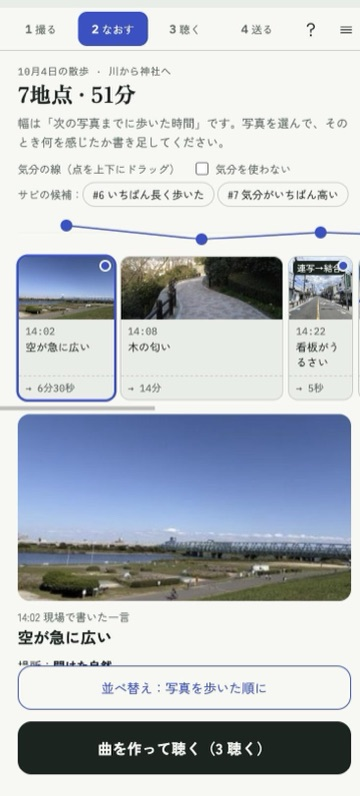
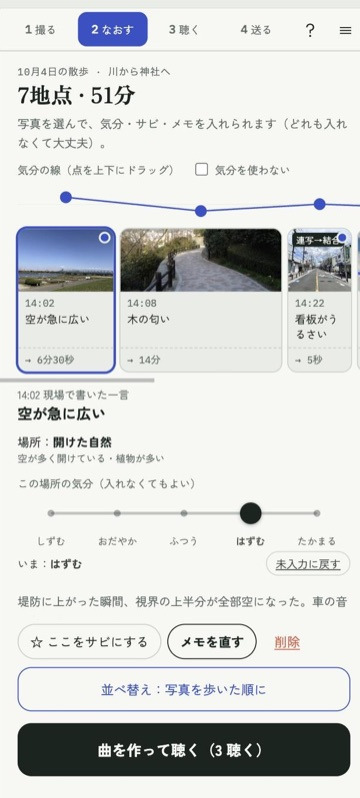
体験版 1.0.4（trial-1.0.4）

diff --git a/index.html b/index.html
@@ -278,6 +278,8 @@ body.spf-open{overflow:hidden}
 .rs-sec{margin:10px 0 4px;font-weight:700;font-size:12px}
 .rs-opt{display:flex;gap:8px;align-items:flex-start;padding:4px 0;font-size:12px;line-height:1.5}.rs-opt input{margin-top:3px;width:18px;height:18px;flex:none}
 .rs-opt small{display:block;color:var(--mute)}
+.rs-f textarea{display:block;width:100%;margin-top:3px;font:inherit;font-size:14px;padding:6px 8px;border:1px solid var(--line);border-radius:8px;background:var(--sheet);color:var(--ink)}
+.rs-how{font-size:12px;line-height:1.7;background:var(--soft);border-radius:10px;padding:8px 10px;margin:8px 0}.rs-how ol{margin:4px 0 0;padding-left:1.3em}
 .rs-f{display:grid;gap:3px;margin:6px 0;font-size:12px}.rs-f input,.rs-f select{border:1px solid var(--line);border-radius:8px;padding:8px;font-size:15px;background:var(--sheet);color:inherit;min-height:44px}
 .rs-f small{color:var(--mute)}
 .rs-consent{border:1px solid var(--line);border-radius:10px;padding:8px 10px;margin:8px 0;font-size:12px}.rs-consent ul{margin:4px 0;padding-left:1.2em}
@@ -302,6 +304,12 @@ body.shell #menu .walks{display:block!important}
 body.shell .sguide{top:44px}body.shell .sguide .sg-h{padding-top:10px}
 @media (max-width:520px){body.shell .sguide{top:calc(44px + env(safe-area-inset-top,0px))}}
 body.shell .scr{top:44px}
+/* ステップ2を小さく（体験者の声：窮屈。写真は上の並びだけ、サビの候補は出さない、サビ・メモ・削除は1行に） */
+body.shell #scr-2 .app-lead:not(.shell-only),body.shell #sabi-cand,body.shell #d-img,body.shell .d-sabi small{display:none!important}
+body.shell .d-memo{font-size:15px}body.shell .d-note{font-size:12px;white-space:nowrap;overflow:hidden;text-overflow:ellipsis}
+body.shell .d-lbl{font-size:11px;color:var(--mute);margin-bottom:-4px}
+body.shell .d-actions{gap:6px}body.shell .d-actions button{min-height:36px;border-radius:99px;padding:4px 12px;font-size:13px}
+body.shell .d-actions #d-sabi{border:1px solid var(--line);background:var(--sheet);color:var(--ink)}body.shell .d-actions #d-sabi[aria-pressed="true"]{background:var(--ink);color:var(--sheet)}
 body.shell .cam-top{padding-top:10px}body.shell .app-h{padding-top:12px}body.shell .back{top:10px}
 body.shell .qz-btns,body.shell #scr-3 .spf-btns,body.shell #len-pick,body.shell #style-pick{display:none!important}
 body.shell #pick #len-pick,body.shell #pick #style-pick{display:flex!important;justify-content:center}
@@ -363,6 +371,7 @@ body.shell #pick #len-pick,body.shell #pick #style-pick{display:flex!important;j
 .tut-smp-t{display:flex;justify-content:space-between;align-items:center;gap:8px;margin-top:6px}.tut-smp-t b{display:inline!important;font-size:13px!important;font-family:var(--f-body)!important;margin:0!important}
 .tut-smp-t button{min-height:40px;min-width:88px;border-radius:99px;border:0;background:var(--route);color:#fff;font-size:14px;font-weight:700;cursor:pointer}
 .tut-note{font-size:12px;color:var(--mute)}
+.tut-qa{margin:4px 0}.tut-qa dt{font-weight:700;margin-top:8px}.tut-qa dt::before{content:'Q. ';color:var(--route)}.tut-qa dd{margin:2px 0 0 1.4em}
 .tut-nav{display:flex;gap:8px;margin-top:8px}
 .tut-nav button{flex:1;min-height:48px;border-radius:12px;border:1px solid var(--line);background:var(--sheet);color:var(--ink);font-size:15px;cursor:pointer}
 .tut-nav button.main{background:var(--route);border-color:var(--route);color:#fff;font-weight:700}
@@ -583,7 +592,7 @@ tr.click:hover td{background:var(--soft)}
         <section id="scr-2" class="scr app" hidden>
           <span class="status">21:10</span>
           <div class="app-h"><div class="eyebrow" id="edit-date"></div><h2 id="edit-title"></h2></div>
-          <p class="app-lead">幅は「次の写真までに歩いた時間」です。写真を選んで、そのとき何を感じたか書き足してください。</p>
+          <p class="app-lead">幅は「次の写真までに歩いた時間」です。写真を選んで、そのとき何を感じたか書き足してください。</p><p class="app-lead shell-only" id="lead2s">写真を選んで、気分・サビ・メモを入れられます（どれも入れなくて大丈夫）。</p>
           <div class="mood-tools"><span>気分の線（点を上下にドラッグ）</span><label><input type="checkbox" id="mood-off"> 気分を使わない</label><span id="sabi-cand"></span></div>
           <div class="tlw" id="tlw"><div class="mood-row" id="mood-row" aria-label="気分の線"></div><div class="tl" id="timeline"></div></div>
           <div class="detail" id="detail"></div>
@@ -622,10 +631,10 @@ tr.click:hover td{background:var(--soft)}
         <!-- PHASE 4（2026-10-31）：体験のおわり。展示用に送る（もとの名前は「研究に送る」） -->
         <section id="scr-4" class="scr app" hidden>
           <div class="app-h"><div class="eyebrow">4 · おわり</div><h2>おつかれさまでした</h2></div>
-          <p class="app-lead">あなたの散歩の曲ができました。よければ、卒業制作展の展示に協力してください。送るかどうかは自由です。</p>
-          <div class="p4-in"><img src="assets/tenchan.png" alt="" class="p4-img"><p class="p4-say">きいてくれて ありがとう！<br>てんじに きょうりょく してくれたら うれしいな！</p></div>
+          <p class="app-lead">あなたの散歩の曲ができました。よければ、卒業制作に協力してください。送るかどうかは自由です。</p>
+          <div class="p4-in"><img src="assets/tenchan.png" alt="" class="p4-img"><p class="p4-say">アプリを つかってくれて ありがとう！<br>そつぎょうせいさくに きょうりょく してくれたら うれしいな！</p></div>
           <button class="cta" id="p4-send">展示用に送る</button>
-          <div class="p4-more"><button type="button" id="p4-listen">もう一度聴く</button><button type="button" id="p4-spf">散歩譜を見る</button><button type="button" id="p4-start">はじめの画面へ</button></div>
+          <div class="p4-more"><button type="button" id="p4-squiz">知らない景色でクイズ（見本の散歩）</button><button type="button" id="p4-feedback" hidden>アンケートに答える（zip もここから送れます）</button><button type="button" id="p4-listen">もう一度聴く</button><button type="button" id="p4-spf">散歩譜を見る</button><button type="button" id="p4-start">はじめの画面へ</button></div>
         </section>
         <!-- 加筆エディタ（PHASE 2・3 共通） -->
         <div class="editor" id="editor" hidden>
@@ -672,7 +681,7 @@ tr.click:hover td{background:var(--soft)}
           <div class="sguide shell-only" id="menu" hidden role="dialog" aria-modal="true" aria-labelledby="menu-title">
             <div class="sg-h"><b id="menu-title">メニュー</b><button type="button" id="menu-close">閉じる</button></div>
             <div class="sg-body" id="menu-body">
-              <div class="menu-btns"><button type="button" id="mn-tut">つかいかたを見る</button><button type="button" id="mn-guide">風景と音の早見表</button><button type="button" id="mn-spf-file">散歩譜ファイルを開く</button><button type="button" id="mn-start">はじめの画面にもどる</button></div>
+              <div class="menu-btns"><button type="button" id="mn-tut">つかいかたを見る</button><button type="button" id="mn-squiz">見本の散歩でクイズ</button><button type="button" id="mn-feedback" hidden>アンケートに答える</button><button type="button" id="mn-guide">風景と音の早見表</button><button type="button" id="mn-spf-file">散歩譜ファイルを開く</button><button type="button" id="mn-start">はじめの画面にもどる</button></div>
               <div id="menu-walks"></div>
             </div>
           </div>
@@ -847,7 +856,7 @@ tr.click:hover td{background:var(--soft)}
   <div class="spf-detail" id="spf-detail" hidden></div>
   <input type="file" id="spf-file" accept=".json,application/json" hidden>
 </div>
-<script>window.TC_TRIAL={"version": "1.0.3", "features": {"open": true, "bright": true, "sat": true, "horizon": true, "pan": true, "shadow": true, "contrast": true, "warmth": true, "highlight": true, "diversity": true, "topHeavy": true, "texture": true, "skyline": true, "cloud": true, "pluckMel": true, "minBars2": true, "skyFill": true, "bellCap": true, "calib10": true, "landmark": true, "transitions": true, "colorHalf": true, "songLength": true, "style": true, "mood": true, "sabi": true, "sabiAsk": true, "research": true, "quizTools": true, "soundGuide": true, "spfPdf": true, "popEdit": true, "realSamples": true, "lastMean": true, "dtRel": true, "cityType": true, "surround": true, "night": true, "noSections": true, "place": true, "ground": true, "appShell": true}};</script>
+<script>window.TC_TRIAL={"version": "1.0.4", "features": {"open": true, "bright": true, "sat": true, "horizon": true, "pan": true, "shadow": true, "contrast": true, "warmth": true, "highlight": true, "diversity": true, "topHeavy": true, "texture": true, "skyline": true, "cloud": true, "pluckMel": true, "minBars2": true, "skyFill": true, "bellCap": true, "calib10": true, "landmark": true, "transitions": true, "colorHalf": true, "songLength": true, "style": true, "mood": true, "sabi": true, "sabiAsk": true, "research": true, "quizTools": true, "soundGuide": true, "spfPdf": true, "popEdit": true, "realSamples": true, "lastMean": true, "dtRel": true, "cityType": true, "surround": true, "night": true, "noSections": true, "place": true, "ground": true, "appShell": true}};</script>
 <script src="lib/analysis.js" charset="utf-8"></script>
 <script src="lib/samples.js" charset="utf-8"></script>
 <script src="lib/exif.js" charset="utf-8"></script>
@@ -1972,7 +1981,7 @@ function renderWalkRow(){
   $('#walk-row').querySelectorAll('.walk[data-w]').forEach(b=>b.addEventListener('click',()=>setWalk(b.dataset.w)));
   if($('#walk-add'))$('#walk-add').addEventListener('click',()=>{ensureRealWalk();state.walkId=null;setWalk(REAL_ID);setPhase(1)});
   const hasReal=userDef&&state.walks[REAL_ID].nodes.length;
-  $('#walk-tools').innerHTML=(userDef?`<label for="user-files">ライブラリの写真をまとめて取り込む</label><button class="linkish" id="walk-clear">この散歩を消して新しく始める</button><label class="noloc"><input type="checkbox" id="no-loc" ${noLocation?'checked':''}> 位置を記録しない</label><span>写真と記録はこの端末の中だけに保存し、外には送りません。</span>`:'')+
+  $('#walk-tools').innerHTML=(userDef?`<label for="user-files">ライブラリの写真をまとめて取り込む</label><button class="linkish" id="walk-clear">この散歩を消して新しく始める</button><label class="noloc"><input type="checkbox" id="no-loc" ${noLocation?'checked':''}> 位置を記録しない</label><span>写真と記録はこの端末の中だけに保存します。データが勝手に外部に送られることはありません。</span>`:'')+
     (hasReal?`<button class="linkish" id="bk-save" style="color:var(--route)">この散歩を控えとして保存</button><label class="noloc"><input type="checkbox" id="bk-pos"> 控えに位置を入れる</label>`:'')+
     `<label for="backup-in">控えから戻す</label>`;
   if($('#bk-save'))$('#bk-save').addEventListener('click',exportBackup);
@@ -2319,10 +2328,12 @@ function renderEdit(){
   $('#detail').innerHTML=`<img src="${s.src}" alt="選んだ地点の写真" id="d-img">
     <div class="d-memo"><small>${s.timeUnknown?'時刻不明':hhmm(s.ts)}${s.posUnknown&&isReal(wk)?' · 位置不明（地図は仮の位置）':''} 現場で書いた一言</small>${esc(s.memo||'（なし）')}</div>
     <div class="d-place" id="d-place"></div>
+    <div class="d-lbl shell-only">この場所の気分（入れなくてもよい）</div>
     <div class="d-mood" id="d-mood"></div>
     <div class="d-sabi"><button type="button" id="d-sabi" aria-pressed="${!!s.sabi}">${s.sabi?'★ サビ（もう一度押すと外す）':'☆ ここをサビにする'}</button><small>サビは2か所まで。選ばなくてもよい</small></div>
     <div class="d-note">${s.note?esc(s.note):'まだ書き足していません。'}</div>
     <div class="d-actions"><button class="btn-edit" id="d-edit">${s.note?'メモを編集する':'メモを書き足す'}</button><button class="btn-del" id="d-del" ${wk.nodes.length<2?'disabled title="最後の1枚は削除できません"':''}>この写真を削除</button></div>`;
+  if(SHELL){$('#d-edit').textContent=s.note?'メモを直す':'メモを書く';$('.d-actions').prepend($('#d-sabi'));$('#d-del').textContent='削除'}
   $('#d-edit').addEventListener('click',()=>openEditor(s));
   moodSlider($('#d-mood'),s.mood==null?null:s.mood,v=>{setMood(wk,s,v);renderEdit()});
   $('#d-sabi').addEventListener('click',()=>setSabi(wk,s,!s.sabi));
@@ -2503,7 +2514,7 @@ const RS={blob:null,name:''};
 function rsOpen(){const wk=cur();if(!wk.song)return;if(pl.playing)pause();RS.blob=null;
   const hasQ=QZ.log.length>0,hasMemo=wk.nodes.some(n=>n.memo||n.note);
   const opt=(id,label,sub,on,dis)=>`<label class="rs-opt"><input type="checkbox" id="rs-${id}" ${on?'checked':''} ${dis?'disabled':''}><span>${label}${sub?`<small>${sub}</small>`:''}</span></label>`;
-  $('#rs-body').innerHTML=`<p>この散歩のデータを、卒業制作展の展示のために、制作者（飯田）に送れます。送るかどうかは自由です。</p>
+  $('#rs-body').innerHTML=`<p>この散歩のデータを、卒業制作のために、制作者に送ることができます。送るかどうかは自由です。</p>
     <div class="rs-sec">送るもの</div>
     ${opt('doc','散歩譜ファイル（かならず入ります）','これだけで同じ曲を作り直せます。写真そのものや位置の数字は入りません',true,true)}
     ${opt('photo','写真','長い辺 1024 画素まで。撮った場所などの情報は消してから入れます',true)}
@@ -2517,6 +2528,8 @@ function rsOpen(){const wk=cur();if(!wk.song)return;if(pl.playing)pause();RS.blo
     <label class="rs-f">属性<select id="rs-attr"><option value="">（書かない）</option>${RS_ATTR.map(x=>`<option>${x}</option>`).join('')}</select></label>
     <label class="rs-f">年代<select id="rs-age"><option value="">（書かない）</option>${RS_AGE.map(x=>`<option>${x}</option>`).join('')}</select></label>
     <label class="rs-f">地域（都道府県か国名）<input id="rs-area" autocomplete="off" maxlength="40"><small>市町村より細かくは書かないでください</small></label>
+    <label class="rs-f">どのあたりを歩きましたか（差し支えなければ）<input id="rs-where" autocomplete="off" maxlength="60"><small>町や駅の名前くらいまで。番地は書かないでください</small></label>
+    <label class="rs-f">そのほか気づいたこと・感想<textarea id="rs-comment" rows="3" maxlength="1000"></textarea></label>
     <div class="rs-consent"><b>同意のお願い</b><ul><li>参加も、送るのも自由です。</li><li>研究・卒業制作展・講評会で使います。</li><li>名前と属性は、書いた分だけ展示に出します（空欄のものは出しません）。</li><li>顔が分かる写真は使いません。</li><li>消す時期：（未定）</li></ul>
       <label class="rs-opt"><input type="checkbox" id="rs-agree"><span>上の内容に同意して、送るデータを作ります</span></label></div>
     <button type="button" class="rs-go" id="rs-make" disabled>送るデータ（zip）を作る</button><p class="qz-msg" id="rs-msg"></p><div id="rs-after"></div>`;
@@ -2538,16 +2551,20 @@ async function rsMake(){const wk=cur(),song=wk.song,g=id=>$('#rs-'+id),on=id=>g(
     if(on('wav')){msg.textContent='曲（WAV）を作っています…（数秒〜数十秒）';files.push({name:'song.wav',blob:encodeWav(await renderSong(song))})}
     const v=x=>(x||'').trim(),items=['散歩譜ファイル',on('photo')&&'写真',on('track')&&'歩いた道の形',on('clock')&&'撮った時刻',on('memo')&&'一言とメモ',on('wav')&&'曲（WAV）',on('quiz')&&'クイズの結果'].filter(Boolean);
     const now=new Date(),consent=[`同意した日時\t${now.toISOString()}`,`選んだもの\t${items.join('・')}`,`アプリの版\t${APP_VERSION}`,`作曲の仕組みの版\t${ALGO_VERSION}`,`言語\tja`,`譜番号\t${fu}`,
-      `展示に使う名前\t${v(g('name').value)}`,`属性\t${g('attr').value}`,`年代\t${g('age').value}`,`地域\t${v(g('area').value)}`,
+      `展示に使う名前\t${v(g('name').value)}`,`属性\t${g('attr').value}`,`年代\t${g('age').value}`,`地域\t${v(g('area').value)}`,`歩いたあたり\t${v(g('where').value)}`,`気づいたこと・感想\t${v(g('comment').value).replace(/\s*\n\s*/g,' ／ ')}`,
       `同意の内容\t参加も送るのも自由／研究・卒業制作展・講評会で使う／名前と属性は書いた分だけ展示に出す／顔が分かる写真は使わない／消す時期は未定`];
     files.push({name:'consent.txt',blob:new Blob(['\uFEFF'+consent.join('\r\n')],{type:'text/plain'})});
     RS.blob=await makeZip(files);RS.name=`research_${now.toISOString().slice(0,10).replace(/-/g,'')}_${fu.replace('-','')}.zip`;
     const canShare=!!(navigator.canShare&&navigator.canShare({files:[new File([RS.blob],RS.name,{type:'application/zip'})]}));
-    msg.textContent=`できました（${Math.round(RS.blob.size/1024)}KB・譜番号 ${fu}）。共有か保存を選んで、制作者に送ってください。`;
-    $('#rs-after').innerHTML=`<div class="rs-done">${canShare?'<button type="button" class="main" id="rs-share">共有する（LINE・メール など）</button>':''}<button type="button" id="rs-save" class="${canShare?'':'main'}">保存する</button></div>`;
-    if(canShare)$('#rs-share').addEventListener('click',async()=>{try{await navigator.share({files:[new File([RS.blob],RS.name,{type:'application/zip'})],title:'散歩のデータ'})}catch(_){}});
+    msg.textContent=`できました（${Math.round(RS.blob.size/1024)}KB・譜番号 ${fu}）。`;
+    $('#rs-after').innerHTML=`${rsHowTo()}<div class="rs-done"><button type="button" class="main" id="rs-save">保存する</button><button type="button" id="rs-form">アンケートを開く</button>${canShare?'<button type="button" id="rs-share">共有する（LINE・Instagram など）</button>':''}</div>`;
+    $('#rs-form').addEventListener('click',openFeedback);
+    // 共有できたら、ダイアログを閉じて 4 おわりへ（体験者の声：送ったあと画面が変わらず迷った）
+    if(canShare)$('#rs-share').addEventListener('click',async()=>{try{await navigator.share({files:[new File([RS.blob],RS.name,{type:'application/zip'})],title:'散歩のデータ'});$('#rs').hidden=true;if(SHELL&&state.phase!==4)setPhase(4);toast('送ってくれて ありがとう！',3000)}catch(_){}});
     $('#rs-save').addEventListener('click',rsSave);
   }catch(e){msg.textContent='作れませんでした。もう一度ためしてください。';$('#rs-make').disabled=false}}
+// 送り方（2026-10-31、飯田）：制作者の個人チャットか、フォームへ
+function rsHowTo(){return`<div class="rs-how"><b>送り方</b><ol><li>「保存する」で zip をスマホに保存します。</li><li><a href="${FEEDBACK_URL}" target="_blank" rel="noopener">アンケート（Google フォーム）</a>を開き、先頭の Dropbox のリンクから zip を送ります（ログインは要りません）。そのままアンケートに答えてください。</li></ol><p style="margin:4px 0 0">または「共有する」で、制作者の <b>LINE・Instagram（@niwakaplayer）・Discord</b> などの個人チャットに送っても大丈夫です。</p></div>`}
 async function rsSave(){const dl=await dlReady;
   if(dl){try{await dl.save({filename:RS.name,data:RS.blob});toast('保存しました')}catch(_){}return}
   const a=document.createElement('a');a.href=URL.createObjectURL(RS.blob);a.download=RS.name;document.body.appendChild(a);a.click();a.remove();setTimeout(()=>URL.revokeObjectURL(a.href),4000)}
@@ -2580,7 +2597,7 @@ function qzBindWho(){const i=$('#qz-who');if(i)i.addEventListener('input',()=>QZ
 function qzRender(){const b=$('#qz-body');
   if(QZ.kind==='a'){
     if(QZ.i>=QZ.qs.length){b.innerHTML=`<p class="qz-msg">${QZ.qs.length}問中 ${QZ.score}問 正解</p><p>曲の一部だけで、どの場所かがわかりましたか？</p>${qzWho()}<div class="qz-act">${SHELL?'<button type="button" class="main" id="qz-next4">つぎへ（4 送る）</button>':''}<button type="button" class="${SHELL?'':'main'}" id="qz-again">もう一度</button><button type="button" id="qz-csv">結果を保存（CSV）</button></div>`;
-      if(SHELL)$('#qz-next4').addEventListener('click',()=>{qzClose();setPhase(4)});
+      if(SHELL)$('#qz-next4').addEventListener('click',()=>{qzClose();const real=state.walks&&state.walks[REAL_ID];if(!isReal(cur())&&real&&real.song)setWalk(REAL_ID);setPhase(4)});
       qzBindWho();$('#qz-again').addEventListener('click',()=>qzOpen('a'));$('#qz-csv').addEventListener('click',qzCsv);return}
     const q=QZ.qs[QZ.i];
     b.innerHTML=`<p>第${QZ.i+1}問（全${QZ.qs.length}問）　曲の一部を聴いて、どの写真の場所の音か選んでください。</p>
@@ -2622,7 +2639,7 @@ $('#qz-open-a').addEventListener('click',()=>qzOpen('a'));$('#qz-open-b').addEve
    言葉の選び方は実装側の仮決め（要確認）。場所の性格ごとに、この曲で何割鳴っているかも出す */
 const PLACE_FEEL={openNat:['空が広く、緑が多い所（河原・公園・田んぼ）','ふわっと浮かぶような、明るく広がる響き'],
   closedNat:['木や緑に囲まれた所（林・並木・庭）','あたたかく、素直に明るい響き'],
-  openCity:['空が広く、建物が多い所（広い道・駅前・広場）','明るいけれど、少しくだけた響き'],
+  openCity:['空が広く、建物が多い所（広い道・駅前・広場）','明るいけれど、少し力の抜けた響き'],
   closedCity:['建物に囲まれた所（路地・商店街・ビルの谷間）','しっとりとした、少しさびしげな響き'],
   none:['空・緑・建物のどれも少ない所（壁の前・足もと・屋内）','素朴で、どこか懐かしい5つの音の響き']};
 function renderSoundGuide(){const wk=cur(),song=wk.song;const tot={};let all=0;
@@ -2675,7 +2692,7 @@ function showPop(it,instant){
     const m=it.members,lead=m[0],notes=m.map(x=>x.note).filter(Boolean).join(' ');
     // ステップ25：その地点の場所の性格と理由を出し、ここから気分とサビを直して、すぐ聴き直せるようにする（曲を「育てる」）
     const fix=FEATURES.popEdit!==false&&!pl.songOverride,sab=m.some(x=>x.sabi);
-    pop.innerHTML=`<div class="pimgs">${m.slice(0,2).map(x=>`<img src="${x.src}" alt="">`).join('')}</div><div class="pb"><span class="pmeta mono">#${it.idx+1} · ${hhmm(lead.ts)} · ${it.bars}小節 · ${it.key} ${SCALE_JA[it.scale]} · 気分 ${moodJa(lead.mood)}</span>${fix?`<span class="pplace">${placeLine(it)}</span>`:''}<span class="pmemo">${esc(m.map(x=>x.memo).filter(Boolean).join(' / ')||'（一言なし）')}</span><span class="pnote">${esc(notes||'帰宅後のメモはまだありません。')}</span>${fix?`<div class="pfix" role="group" aria-label="この地点の気分とサビを直す">気分${MOODS.map(o=>`<button type="button" data-v="${o.v}" aria-pressed="${lead.mood===o.v}" title="${o.ja}">${o.sym}</button>`).join('')}<button type="button" data-sabi aria-pressed="${sab}">${sab?'★ サビ':'☆ サビ'}</button></div>`:''}<button class="pedit" id="pop-edit">${notes?'メモを編集':'メモを書き足す'}</button></div>`;
+    pop.innerHTML=`<div class="pimgs">${m.slice(0,2).map(x=>`<img src="${x.src}" alt="">`).join('')}</div><div class="pb"><span class="pmeta mono">#${it.idx+1} · ${hhmm(lead.ts)} · ${SHELL?'':`${it.bars}小節 · ${it.key} ${SCALE_JA[it.scale]} · `}気分 ${moodJa(lead.mood)}</span>${fix?`<span class="pplace">${placeLine(it)}</span>`:''}<span class="pmemo">${esc(m.map(x=>x.memo).filter(Boolean).join(' / ')||'（一言なし）')}</span><span class="pnote">${esc(notes||'帰宅後のメモはまだありません。')}</span>${fix?`<div class="pfix" role="group" aria-label="この地点の気分とサビを直す">気分${MOODS.map(o=>`<button type="button" data-v="${o.v}" aria-pressed="${lead.mood===o.v}" title="${o.ja}">${o.sym}</button>`).join('')}<button type="button" data-sabi aria-pressed="${sab}">${sab?'★ サビ':'☆ サビ'}</button></div>`:''}<button class="pedit" id="pop-edit">${notes?'メモを編集':'メモを書き足す'}</button></div>`;
     $('#pop-edit').addEventListener('click',()=>openEditor(m.find(x=>x.note)||lead));
     if(fix)pop.querySelectorAll('.pfix button').forEach(b=>b.addEventListener('click',()=>popFix(it,b.dataset.sabi!==undefined?{sabi:!sab}:{mood:+b.dataset.v})));
     pop.classList.remove('out');
@@ -2912,7 +2929,17 @@ function renderP3Act(){const wk=cur();$('#p3-style-v').textContent=(STYLES[wk.st
 function openPick(which){const el=which==='len'?$('#len-pick'):$('#style-pick');$('#pick-title').textContent=which==='len'?'曲の長さを変える':'スタイルを変える';
   const b=$('#pick-body');b.innerHTML=`<p style="margin:0 0 8px">${which==='len'?'曲の長さを選ぶと、作り直してはじめから聴けます。':'スタイルは楽器と鳴らし方の着せ替えです。メロディと構成は同じです。'}</p>`;b.appendChild(el);$('#pick').hidden=false}
 function closePick(){const b=$('#pick-body'),home=$('#qz-btns');['#len-pick','#style-pick'].forEach(id=>{const el=$(id);if(el&&el.parentNode===b)home.parentNode.insertBefore(el,home)});$('#pick').hidden=true;if(state.phase===3)renderP3Act()}
-function renderP4(){const ok=FEATURES.research!==false;$('#p4-send').hidden=!ok}
+function renderP4(){const ok=FEATURES.research!==false;$('#p4-send').hidden=!ok;$('#p4-squiz').hidden=FEATURES.quizTools===false}
+/* 感想フォーム（Google フォーム。privacy.md「感想フォーム」）：リンクを開くだけ。アプリからは何も送らず、URL に散歩や人の情報を付けない。
+   URL が空のあいだはボタンを出さない */
+const FEEDBACK_URL='https://forms.gle/FwHXYJEeK1KFtPno6'; // 体験版アンケート（2026-10-31、飯田が作成。zip を送る Dropbox のリンクもフォームの先頭にある）
+function openFeedback(){if(FEEDBACK_URL)window.open(FEEDBACK_URL,'_blank','noopener')}
+/* 見本の散歩でクイズ（2026-10-31、飯田）：知らない景色でも、音だけで場所が分かるかを確かめる。まだクイズをしていない見本の散歩（A→B→C）を開き、
+   「どの場所の音？」を始める。結果はほかのクイズと同じ記録（散歩の列に見本の名前）に入り、展示用に送るの quiz.csv にも入る */
+async function sampleQuiz(){const W=window.TCSamples.WALKS,done=new Set(QZ.log.map(l=>l.walk)),w=W.find(x=>!done.has(x.name))||W[0];
+  $('#menu').hidden=true;if(pl.playing)pause();if(state.walkId!==w.id)setWalk(w.id);if(state.phase!==3)setPhase(3);
+  for(let i=0;i<50&&!(cur().def.id===w.id&&cur().song);i++)await new Promise(r=>setTimeout(r,100));if(!cur().song)return;
+  qzOpen('a');toast(`見本の散歩「${w.name}」でクイズ。知らない景色でも、音で分かるかな？`,3500)}
 function openMenu(){const host=$('#menu-walks');if(!host.firstChild){host.appendChild(document.querySelector('.walks'));const cr=$('#credits');if(cr)host.appendChild(cr)}
   document.querySelector('.walks').style.display='block';renderWalkRow();$('#menu').hidden=false}
 /* てんちゃんのチュートリアル。ページにあった説明（使い方の流れ・3つのステップ・散歩譜・データの扱い）をここに集めた。言葉は実装側の仮決め（要確認） */
@@ -2926,7 +2953,7 @@ const TUT=[
   {say:'まずは きいてみよう！',t:'見本の散歩の曲',v:'',
    x:'<p>写真から、こんな曲ができます。▶ で聴いてみてください（つぎへ進むと止まります）。</p><div id="tut-samples" class="tut-samples"></div><p class="tut-note">見本の曲は、あとでも右上の ≡（メニュー）から聴けます。</p>'},
   {say:'ぜんぶで 4つの ステップだよ。',t:'使い方の流れ',
-   v:'<div class="tv-flow"><span><em>1</em>撮る<small>歩きながら</small></span><span><em>2</em>なおす<small>帰ってから</small></span><span><em>3</em>聴く<small>曲と散歩譜</small></span><span><em>4</em>送る<small>よければ</small></span></div>',
+   v:'<div class="tv-flow"><span><em>1</em>撮る<small>歩きながら</small></span><span><em>2</em>なおす<small>帰ってから</small></span><span><em>3</em>聴く<small>曲と散歩譜</small></span><span><em>4</em>送る<small>よければ協力</small></span></div>',
    x:'<p>画面の上のタブで、いつでも前のステップにもどれます。</p>'},
   {say:'けしきが かわったら、パシャッ！',t:'ステップ1　撮る',v:'<img class="tv-shot" src="assets/tut/step1.jpg" alt="撮る画面">',
    x:'<ul><li><b class="em">風景全体</b>を撮ってね。進む先の道が入ると、もっといいよ。</li><li>一言メモは書かなくても大丈夫（「メモなし」）。</li><li><b class="em">長く歩いた景色ほど、曲でも長く</b>鳴ります。</li><li><b class="em">前に撮った写真も使えます</b>：「写真を選ぶ」からカメラロールの写真を入れられます。</li><li>「♪ 曲を聴く」で、ここまでの曲が聴けます。</li></ul>'},
@@ -2937,10 +2964,12 @@ const TUT=[
   {say:'うえは あるいた じかん、<br>したは きょくの じかん だよ。',t:'散歩譜（曲の設計図）',v:'<img class="tv-wide" src="assets/tut/sanpofu.jpg" alt="散歩譜">',
    x:'<p>聴いたあとは「散歩譜を見る」で、歩いた時間の帯と曲の時間の帯を並べて見られます。どの景色がどの音になったかが分かります。画像や PDF にして保存もできます。</p>'},
   {say:'どんな けしきが どんな おとに なるか、<br>ここで わかるよ。',t:'景色と音',
-   v:`<div class="tv-places">${[['a1-river','開けた自然','ふわっと広がる'],['a6-shrine','囲まれた自然','あたたかい'],['a3-street','開けた街','明るく、少しくだけた'],['a5-alley','囲まれた街','しっとり']].map(([k,a,b])=>`<figure><img src="${TUT_PH(k)}" alt=""><figcaption><b>${a}</b>${b}響き</figcaption></figure>`).join('')}</div>`,
+   v:`<div class="tv-places">${[['a1-river','開けた自然','ふわっと広がる'],['b9-greenway','囲まれた自然','あたたかい'],['a3-street','開けた街','明るく、少し力の抜けた'],['a5-alley','囲まれた街','しっとりした']].map(([k,a,b])=>`<figure><img src="${TUT_PH(k)}" alt=""><figcaption><b>${a}</b>${b}響き</figcaption></figure>`).join('')}</div>`,
    x:'<p>空の輪郭がメロディの高さに、多く写ったもの（木・草・建物）が楽器になります。</p><p><button type="button" class="tut-link" id="tut-guide">風景と音の早見表をひらく</button></p>'},
-  {say:'てんじに きょうりょく してくれたら<br>うれしいな！',t:'データとおわりに',v:'',
-   x:'<ul><li>写真や記録は、このスマホの中だけに保存されます。アプリが外に送ることはありません。</li><li>おわったら、よければ「4 送る」で展示に協力してください（送るかどうかは自由）。</li><li>iPhone は Safari で開いてください（LINE などの中で開くと、記録が消えることがあります）。音が出ないときは、マナーモードを解除してください。</li></ul><p>さあ、やってみよう！</p>'}];
+  {say:'よく きかれる ことだよ。',t:'よくある質問',v:'',
+   x:'<dl class="tut-qa"><dt>夜の景色でもいいの？</dt><dd>いいよ。暗い写真は、夜らしい落ち着いた響きになります。</dd><dt>犬や、物だけを撮ってもいい？</dt><dd>いいよ。ただ音は景色のかたち（空・緑・建物）で決まるので、まわりの景色も一緒に写すと、その場所らしい音になります。</dd><dt>歩いているあいだ、スマホは？</dt><dd>しまって大丈夫。画面を消しても、ほかのアプリを使ってもOK。撮るときに Safari でこのページを開いてね。</dd><dt>前に撮った写真は、まとめて選んでいい？</dt><dd>いいよ。「写真を選ぶ」で何枚でもまとめて選べます。<b class="em">1回の散歩の写真だけ</b>を選んでね（別の日の写真をまぜると、そのあいだも「歩いた時間」になります）。</dd></dl>'},
+  {say:'そつぎょうせいさくに きょうりょく<br>してくれたら うれしいな！',t:'データとおわりに',v:'',
+   x:'<ul><li>写真や記録は、このスマホの中だけに保存されます。データが勝手に外部に送られることはありません。</li><li>おわったら、よければ「4 送る」で卒業制作に協力してください（送るかどうかは自由）。さいごに、アンケート（Google フォーム）にも答えてもらえるとうれしいです。</li><li>iPhone は Safari で開いてください（LINE などの中で開くと、記録が消えることがあります）。音が出ないときは、マナーモードを解除してください。</li></ul><p>さあ、やってみよう！</p>'}];
 let tutI=0;
 var tutPlaying=null; // var：setPlayIcon から先に参照されるため
 function tutSamples(){const host=$('#tut-samples');if(!host)return;const W=window.TCSamples.WALKS;
@@ -2977,12 +3006,15 @@ if(SHELL){document.body.classList.add('shell');
   $('#btn-reorder').addEventListener('click',async()=>{const wk=cur();if(wk.nodes.length<2){toast('写真が2枚以上あると、並べ替えできます');return}await ensureSong(wk);qzOpen('b')});
   $('#p3-style').addEventListener('click',()=>openPick('style'));$('#p3-len').addEventListener('click',()=>openPick('len'));$('#pick-close').addEventListener('click',closePick);
   $('#p3-quiz').addEventListener('click',()=>qzOpen('a'));$('#p3-spf').addEventListener('click',openSanpofuForWalk);
-  $('#p4-send').addEventListener('click',rsOpen);$('#p4-listen').addEventListener('click',()=>setPhase(3));$('#p4-spf').addEventListener('click',()=>{setPhase(3);openSanpofuForWalk()});$('#p4-start').addEventListener('click',()=>{if(pl.playing)pause();$('#start').hidden=false});
+  $('#p4-send').addEventListener('click',rsOpen);$('#p4-squiz').addEventListener('click',sampleQuiz);$('#mn-squiz').addEventListener('click',sampleQuiz);
+  $('#p4-feedback').addEventListener('click',openFeedback);$('#mn-feedback').addEventListener('click',()=>{$('#menu').hidden=true;openFeedback()});$('#p4-feedback').hidden=$('#mn-feedback').hidden=!FEEDBACK_URL;$('#mn-squiz').hidden=FEATURES.quizTools===false;$('#p4-listen').addEventListener('click',()=>setPhase(3));$('#p4-spf').addEventListener('click',()=>{setPhase(3);openSanpofuForWalk()});$('#p4-start').addEventListener('click',()=>{if(pl.playing)pause();$('#start').hidden=false});
   $('#sg-close').addEventListener('click',()=>{if(GUIDE_BACK){const f=GUIDE_BACK;GUIDE_BACK=null;f()}});
   $('#start').hidden=false}
 
 // ステップ30：版の表示と、体験版で開発用のものを隠す
-$('#ver-eyebrow').textContent=VERSION_JA+' · Web版';if(TRIAL)document.title='あなたの散歩が音楽に（体験版 '+TRIAL.version+'）';
+$('#ver-eyebrow').textContent=VERSION_JA+' · Web版';
+// 体験版の画面では、地図の凡例を音楽の言葉（リディアンなど）ではなく場所の性格で出す（体験者の声：言葉が分からない）
+if(SHELL){const mk=document.querySelector('.map-key');if(mk)mk.innerHTML=[['lyd','開けた自然'],['maj','囲まれた自然'],['mix','開けた街'],['min','囲まれた街'],['pen','分類できない']].map(([c,t])=>`<span><i style="background:var(--${c})"></i>${t}</span>`).join('')}if(TRIAL)document.title='あなたの散歩が音楽に（体験版 '+TRIAL.version+'）';
 {const b=document.createElement('div');b.className='ver-badge';b.textContent=VERSION_JA;document.body.appendChild(b)}
 if(TRIAL){$('#dev').hidden=true;$('#dev').style.display='none'} // 中の部品はコードが使うので、消さずに隠す（計測画面へのリンクも中にある）
 window.__tc={TRIAL,VERSION_JA,rsOpen,rsMake,rsReceive,RS,jsonFromZip,QZ,pdfFromCanvas,PAGE,setStyle,spfImage,spfComposite,spfOpenFile,viewDoc,SPF,openSanpofu,openSanpofuForWalk,spfSvg,makeSanpofu,songFromSanpofu,fuNumber,store,makeBackup,readBackupFile,restoreBackup,exportBackup,getStatus:()=>walkStatus,importPhotos,intake,loadRealWalk,ensureRealWalk,exportPoint,renderSong,encodeWav,makeZip,exportPair,exportCurrent,renderEffects,state,cur,compose,FEATURES,PARAM,setFeature,audition,stopAudition,aud,askDelete,deleteNode};
